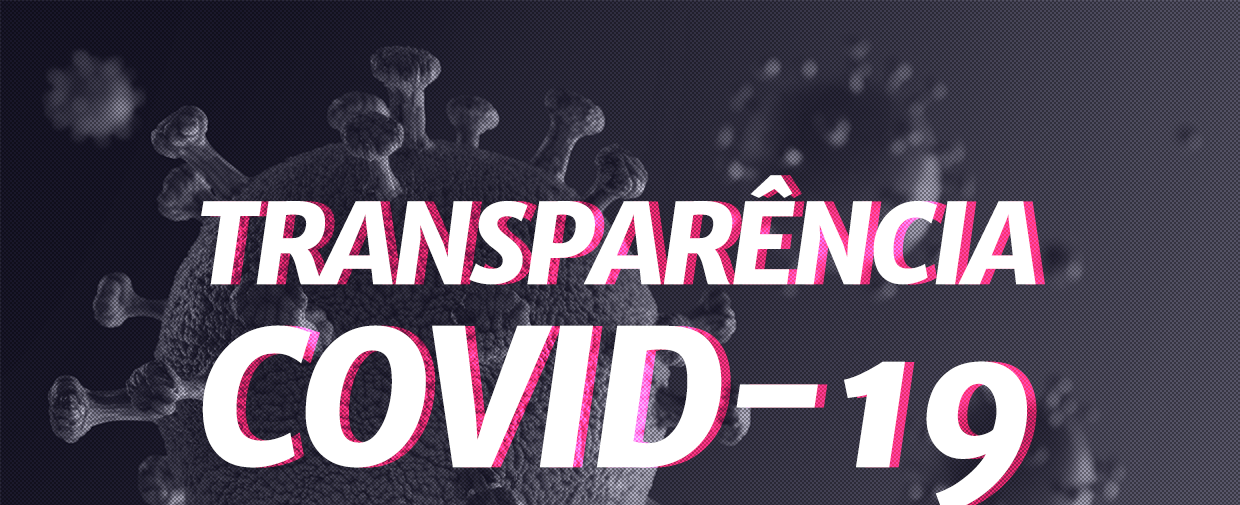
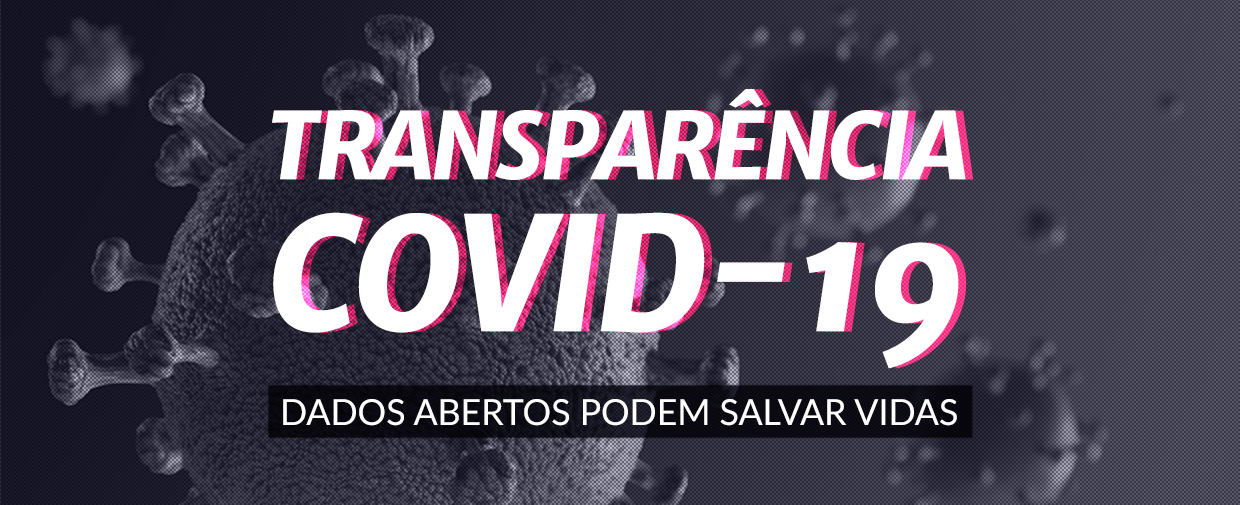
ajusta imagem header responsivo

diff --git a/index.html b/index.html
@@ -9,8 +9,11 @@ permalink: /
   <body>
 
     <!-- Slider Start -->
-<section id="slider">  
-    <img src="../img/Transparencia-Covid19.png" alt="" >    
+<section id="slider" class="slider-md">  
+    <img src="../img/banner-covid.png" alt="" >    
+</section>
+<section id="slider" class="slider-sm">  
+  <img src="../img/banner-covid-sm.png" alt="" >    
 </section>
 
 <!-- Wrapper Start -->
@@ -22,7 +25,7 @@ permalink: /
           <iframe width="100%" height="520" frameborder="0" src="https://thiagoteixeira.carto.com/builder/e3e343ed-6a31-4a50-8d16-e81393ffda3d/embed" allowfullscreen webkitallowfullscreen mozallowfullscreen oallowfullscreen msallowfullscreen></iframe>             
         -->
 
-        <iframe title="" aria-label="Brazil states (2018) choropleth map" id="datawrapper-chart-RUMq3" src="//datawrapper.dwcdn.net/RUMq3/5/" scrolling="no" frameborder="0" style="width: 0; min-width: 100% !important; border: none;" height="500"></iframe><script type="text/javascript">!function(){"use strict";window.addEventListener("message",function(a){if(void 0!==a.data["datawrapper-height"])for(var e in a.data["datawrapper-height"]){var t=document.getElementById("datawrapper-chart-"+e)||document.querySelector("iframe[src*='"+e+"']");t&&(t.style.height=a.data["datawrapper-height"][e]+"px")}})}();
+        <iframe title="&Iacute;ndice de Transpar&ecirc;ncia - estados brasileiros" aria-label="Brazil states (2018) choropleth map" id="datawrapper-chart-g5iQV" src="//datawrapper.dwcdn.net/g5iQV/1/" scrolling="no" frameborder="0" style="width: 0; min-width: 100% !important; border: none;" height="569"></iframe><script type="text/javascript">!function(){"use strict";window.addEventListener("message",function(a){if(void 0!==a.data["datawrapper-height"])for(var e in a.data["datawrapper-height"]){var t=document.getElementById("datawrapper-chart-"+e)||document.querySelector("iframe[src*='"+e+"']");t&&(t.style.height=a.data["datawrapper-height"][e]+"px")}})}();
         </script>
 
       </div><!-- .col-md-5 close -->

diff --git a/css/airspace.css b/css/airspace.css
@@ -91,6 +91,10 @@ header .navbar-default .navbar-nav li a:hover {
   color: #d01c8c; 
 }
 
+/*---------------------------------------------
+					Responsividade logo OKBR
+-----------------------------------------------*/
+
 @media only screen and (min-width: 768px) {
   header .navbar-sm {
     display: none;
@@ -153,6 +157,26 @@ header .navbar-default .navbar-nav li a:hover {
   letter-spacing: 3px;
   color: #79db59;
 }
+
+/*---------------------------------------------
+					Responsividade Header Transparência COVID-19
+-----------------------------------------------*/
+
+@media only screen and (min-width: 768px) {
+  .slider-sm img{
+    display: none;    
+  }
+}
+
+@media only screen and (max-width: 767px) {
+  .slider-md img{
+    display: none;    
+  }
+}
+
+
+
+
 #apoio {
   background-size: cover;
   position: relative;
@@ -168,11 +192,6 @@ header .navbar-default .navbar-nav li a:hover {
 --*/
 #indice {
   padding: 50px 0;  
-}
-@media only screen and (max-width: 600px) {
-  #indice {
-    padding: 0;  
-  }
 }
 #indice .block h2 {
   padding-top: 35px;

diff --git a/css/responsive.css b/css/responsive.css
@@ -198,6 +198,10 @@ px      68    160    252    */
   #slider .block p {
     font-size: 13px;
   }
+
+
+
+  
   /*--
 	wrapper Start 
 --*/
@@ -427,3 +431,7 @@ px      68    160    252    344    436    */
     background-color: #100f19; 
   }
  }
+
+
+
+ 
